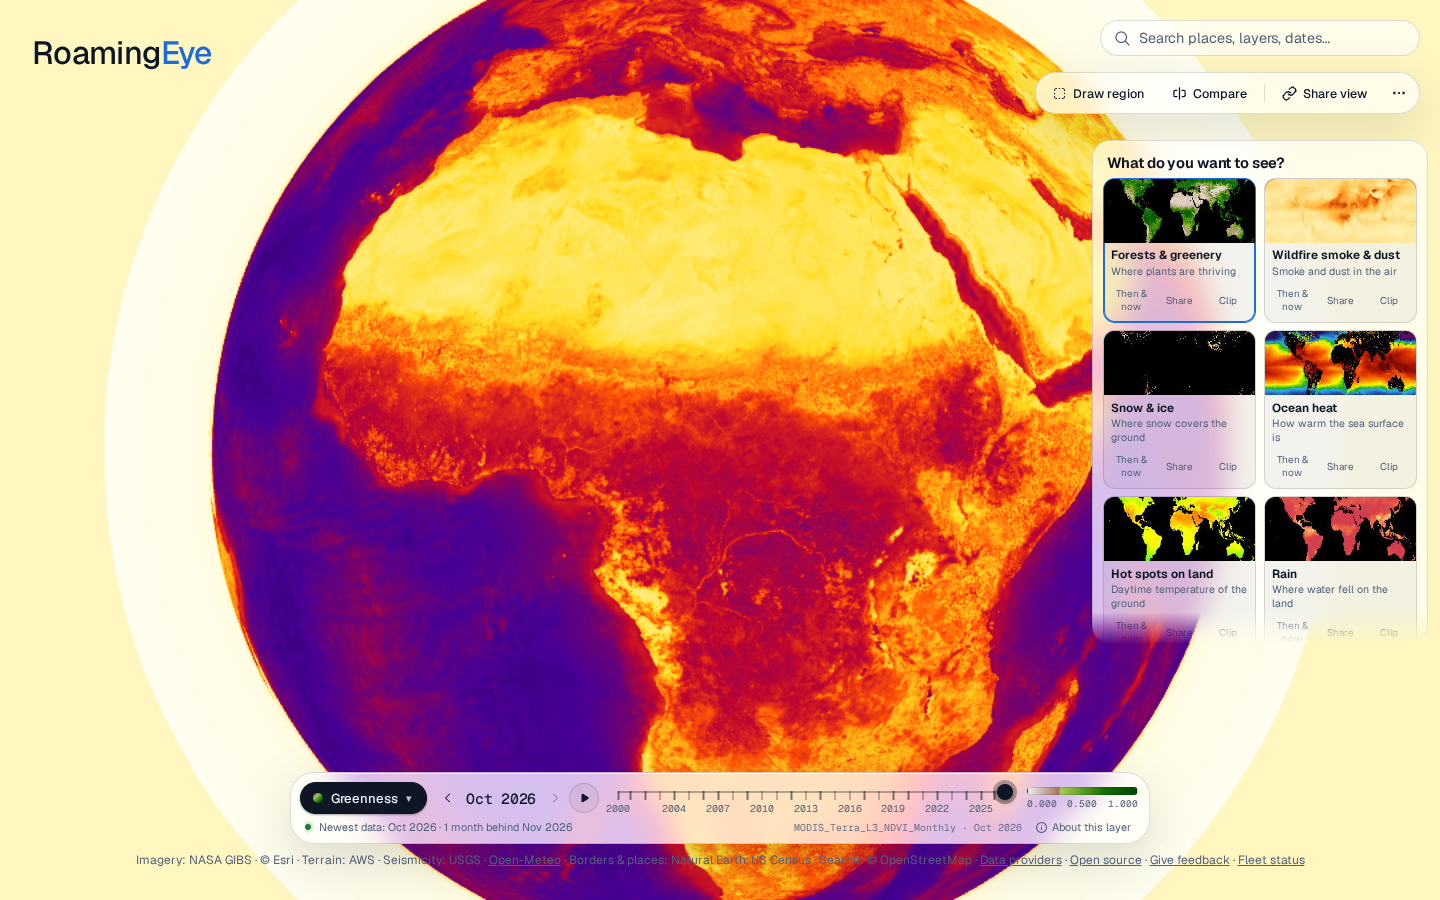
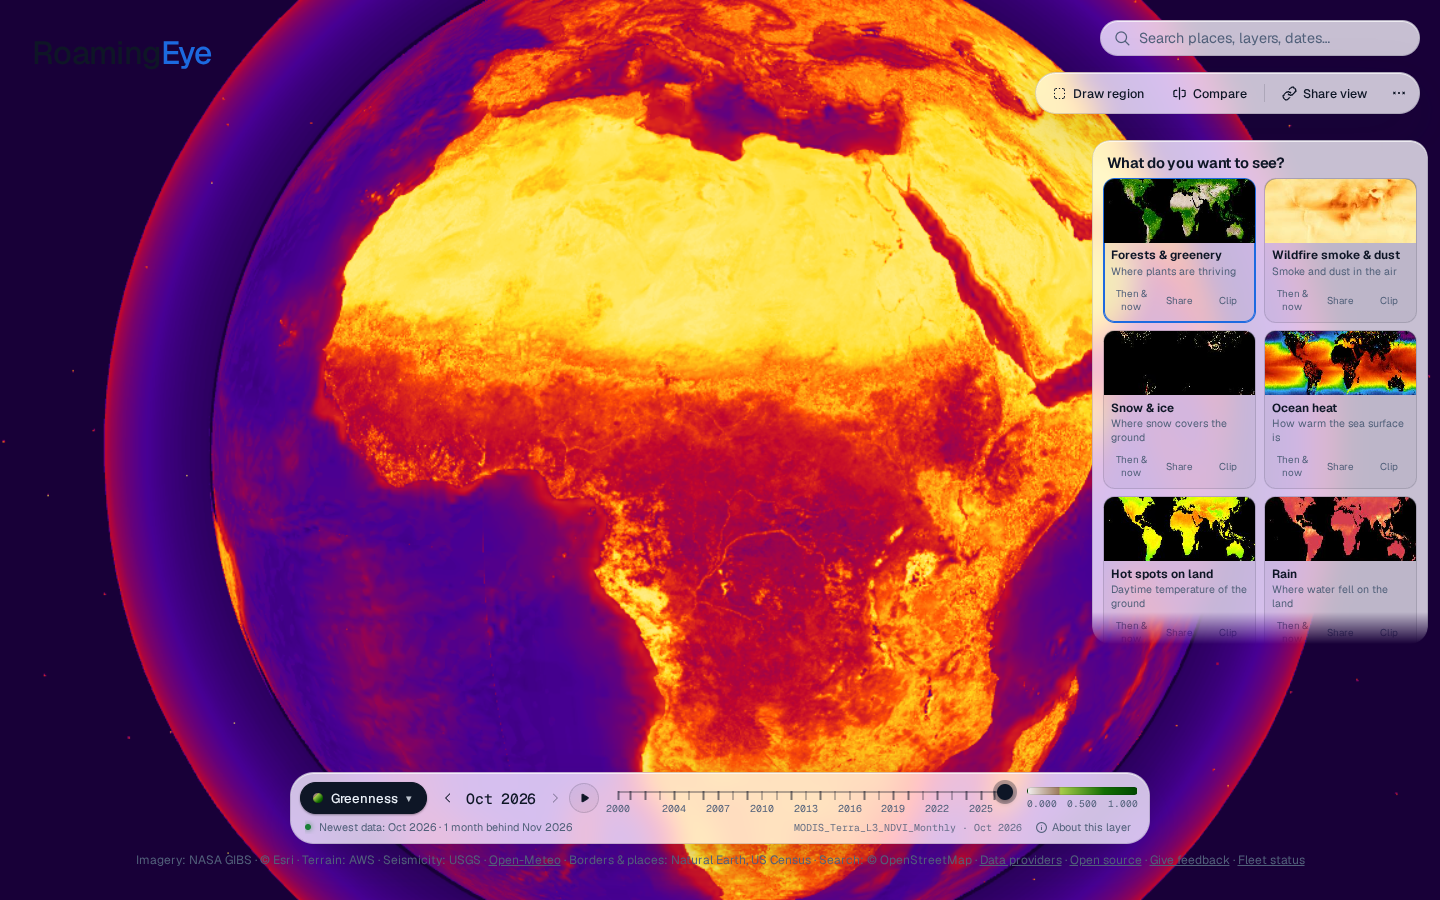
Crush night vision into a dark phosphor tube
A look now draws against the dark sky and the existing starfield, so the
pale page is no longer part of the grade. Night vision keeps only the
highlights, with grain, a round vignette, and a small bloom on bright
points. Noir, Retro CRT, and Blueprint sit in that same dark field.

diff --git a/src/fx/compositor.ts b/src/fx/compositor.ts
@@ -34,7 +34,8 @@ float luma(vec3 c) {
 }
 
 float grain(vec2 uv) {
-  return fract(sin(dot(uv * uResolution + uTime, vec2(12.9898, 78.233))) * 43758.5453);
+  vec2 p = floor(uv * uResolution + vec2(uTime * 48.0, uTime * 29.0));
+  return fract(sin(dot(p, vec2(127.1, 311.7))) * 43758.5453);
 }
 
 vec3 thermal(float t) {
@@ -53,17 +54,29 @@ vec3 thermal(float t) {
 }
 
 vec3 night(vec2 uv) {
+  vec2 px = 2.0 / uResolution;
   float l = luma(texture2D(uFrame, uv).rgb);
-  l = clamp(pow(max(l, 0.0), 0.45) * 1.15, 0.0, 1.0);
-  float vig = smoothstep(0.35, 0.85, length(uv - 0.5));
-  float n = grain(uv);
-  return vec3(0.08, 1.0, 0.32) * l * (1.0 - vig * 0.55) + (n - 0.5) * 0.05;
+  float nearby = max(
+    max(luma(texture2D(uFrame, uv + vec2(px.x, 0.0)).rgb), luma(texture2D(uFrame, uv - vec2(px.x, 0.0)).rgb)),
+    max(luma(texture2D(uFrame, uv + vec2(0.0, px.y)).rgb), luma(texture2D(uFrame, uv - vec2(0.0, px.y)).rgb))
+  );
+  float g = smoothstep(0.2, 0.75, l);
+  g = pow(g, 2.6);
+  float spark = smoothstep(0.58, 0.9, max(l, nearby));
+  g = clamp(g + spark * 0.4, 0.0, 1.0);
+  g = clamp(g + (grain(uv) - 0.5) * 0.09 * (0.2 + g), 0.0, 1.0);
+  float vig = smoothstep(0.18, 0.62, length(uv - 0.5));
+  vec3 phosphor = vec3(0.04, 0.42, 0.08) * g + vec3(0.35, 1.0, 0.45) * spark * g;
+  return phosphor * (1.0 - vig);
 }
 
 vec3 noir(vec2 uv) {
   float l = luma(texture2D(uFrame, uv).rgb);
-  l = smoothstep(0.08, 0.82, l);
-  return vec3(l) + (grain(uv) - 0.5) * 0.05;
+  l = smoothstep(0.16, 0.7, l);
+  l = pow(l, 1.25);
+  float vig = smoothstep(0.4, 0.9, length(uv - 0.5));
+  l = clamp(l * (1.0 - vig * 0.7) + (grain(uv) - 0.5) * 0.035, 0.0, 1.0);
+  return vec3(l * 0.92, l * 0.9, l * 0.86);
 }
 
 vec3 crt(vec2 uv) {
@@ -79,9 +92,10 @@ vec3 crt(vec2 uv) {
     texture2D(uFrame, curved).g,
     texture2D(uFrame, curved - vec2(shift, 0.0)).b
   );
-  float scan = 0.78 + 0.22 * sin(curved.y * uResolution.y * 3.14159);
-  float vig = smoothstep(0.4, 0.95, length(uv - 0.5));
-  return col * scan * (1.0 - vig * 0.35);
+  float scan = 0.72 + 0.28 * sin(curved.y * uResolution.y * 3.14159);
+  float vig = smoothstep(0.35, 0.85, length(uv - 0.5));
+  vec3 graded = pow(max(col, vec3(0.0)), vec3(1.2)) * 0.85;
+  return graded * scan * (1.0 - vig * 0.72);
 }
 
 vec3 blueprint(vec2 uv) {
@@ -90,7 +104,7 @@ vec3 blueprint(vec2 uv) {
   float gx = luma(texture2D(uFrame, uv + vec2(px.x, 0.0)).rgb) - luma(texture2D(uFrame, uv - vec2(px.x, 0.0)).rgb);
   float gy = luma(texture2D(uFrame, uv + vec2(0.0, px.y)).rgb) - luma(texture2D(uFrame, uv - vec2(0.0, px.y)).rgb);
   float edge = smoothstep(0.03, 0.18, length(vec2(gx, gy)));
-  float shape = smoothstep(0.12, 0.5, l);
+  float shape = smoothstep(0.22, 0.62, l);
   float grid = 0.0;
   if (fract(uv.x * 36.0) > 0.96 || fract(uv.y * 24.0) > 0.96) grid = 0.22;
   vec3 paper = vec3(0.03, 0.16, 0.42);

diff --git a/src/main.ts b/src/main.ts
@@ -286,6 +286,12 @@ function applyTheme(theme: Theme): void {
   renderer.setClearColor(SPACE_BG, 1);
 }
 
+function setFootage(on: boolean): void {
+  // The sky chunk draws the stars. A look only darkens the page behind the
+  // canvas, so a light theme does not show through as a pale card.
+  document.documentElement.classList.toggle("is-footage", on);
+}
+
 const themeEl = document.querySelector<HTMLElement>("#theme-toggle");
 // The toggle class arrives with the More menu. The first frame still has to
 // paint the saved theme, which is a storage read and one attribute.
@@ -452,6 +458,7 @@ if (tooltipEl) {
 const initialView = decodeViewState(window.location.hash);
 let currentLook: LookId = initialView.look ?? "natural";
 let presentLook: ((draw: (gl: WebGLRenderer) => void) => void) | null = null;
+if (currentLook !== "natural") setFootage(true);
 // The last session's working context (layer/month/overlays) restores on a
 // plain revisit; an explicit URL hash always wins. localStorage can throw
 // (private mode) — degrade to defaults, never break boot.
@@ -4154,6 +4161,7 @@ function installLooks(): void {
       initial: currentLook,
       onChange: (id) => {
         currentLook = id;
+        setFootage(id !== "natural");
         presentLook = id === "natural" ? null : (draw) => handle.present(draw);
         scheduleHashSync();
       },

diff --git a/src/style.css b/src/style.css
@@ -5261,3 +5261,8 @@ body {
   color: var(--bg);
   border-color: transparent;
 }
+
+html.is-footage,
+html.is-footage body {
+  background: #05070d;
+}
